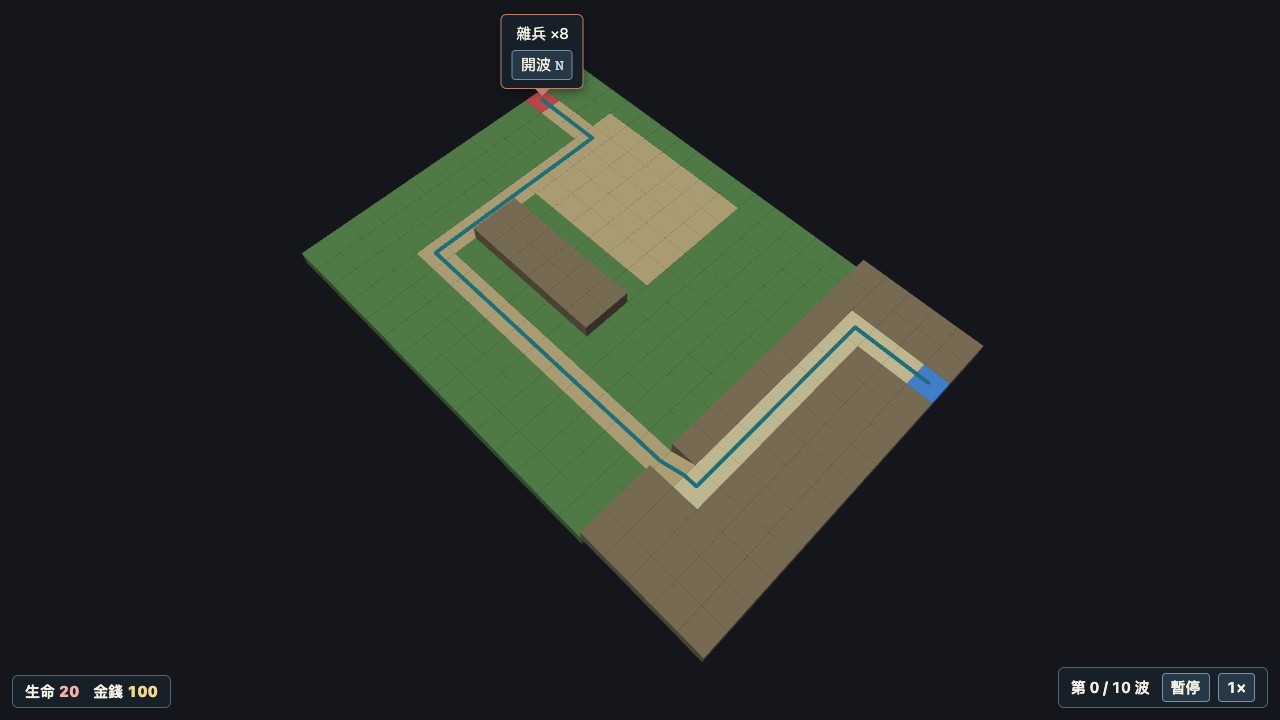
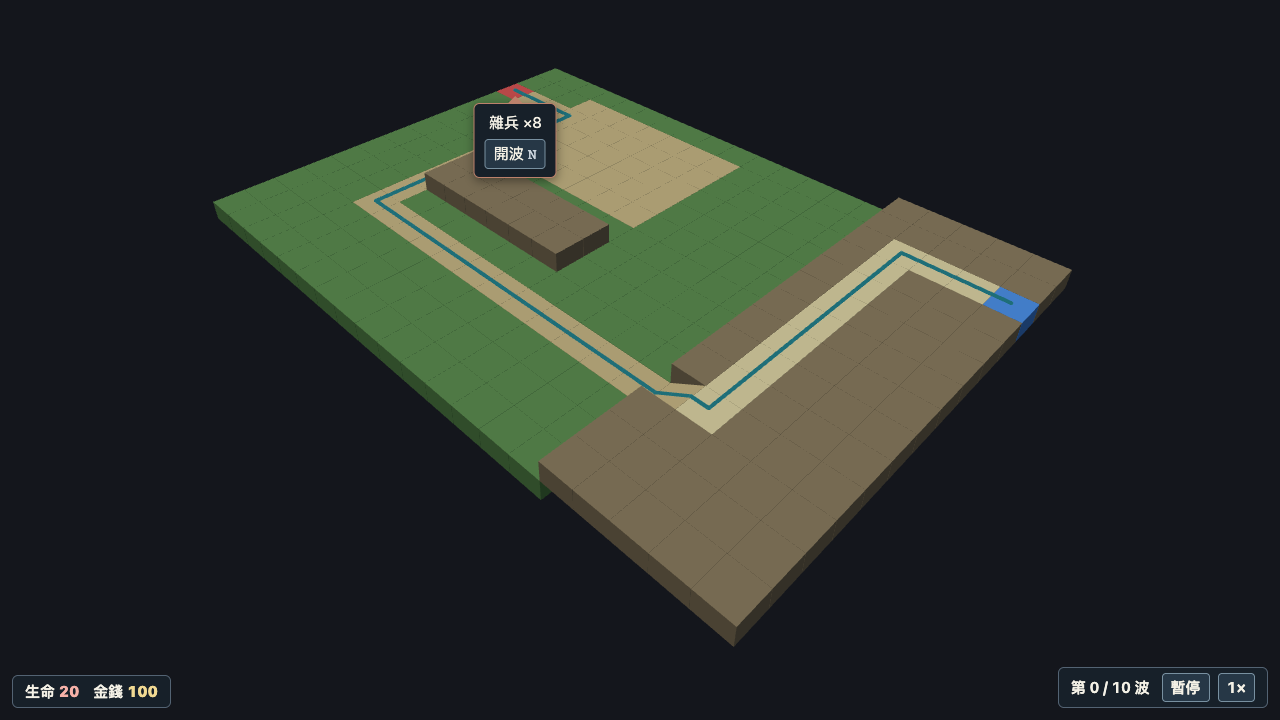
feat: [ camera ] 將開局俯角降至 35°
依試玩結果降低鏡頭俯角，讓高台側面更清楚。同步更新開局截圖與冒煙測試使用的格子和入口座標。

已通過 lint、typecheck、規則與平衡測試、production build 及兩項 Playwright 冒煙測試。Refs #36

Changed region(s): [[0.1562, 0.0306, 0.8438, 0.9167]]

diff --git a/tests/production.test.ts b/tests/production.test.ts
@@ -1,12 +1,12 @@
 import { expect, type Page, test } from '@playwright/test';
 
 // An open tile in the initial 1280×720 view.
-const openTile = { x: 640, y: 360 };
+const openTile = { x: 640, y: 389 };
 
 async function hasEnemyBodyAtEntrance(page: Page): Promise<boolean> {
   const screenshot = await page.screenshot({
-    // First stretch of lane at the configured viewport, below the entrance flag.
-    clip: { x: 538, y: 88, width: 82, height: 60 },
+    // First stretch of lane at the configured viewport.
+    clip: { x: 505, y: 76, width: 100, height: 55 },
     style: '#wave-flag { visibility: hidden !important; }',
   });
   return page.evaluate(

diff --git a/src/render/camera.ts b/src/render/camera.ts
@@ -4,7 +4,7 @@ import { LAYER_HEIGHT } from './terrain';
 
 const FOV_DEGREES = 45;
 const YAW = Math.PI / 4;
-const PITCH = (58 * Math.PI) / 180;
+const PITCH = (35 * Math.PI) / 180;
 const OVERVIEW_FILL = 0.85;
 const CLOSEST_DISTANCE_RATIO = 0.5;
 
